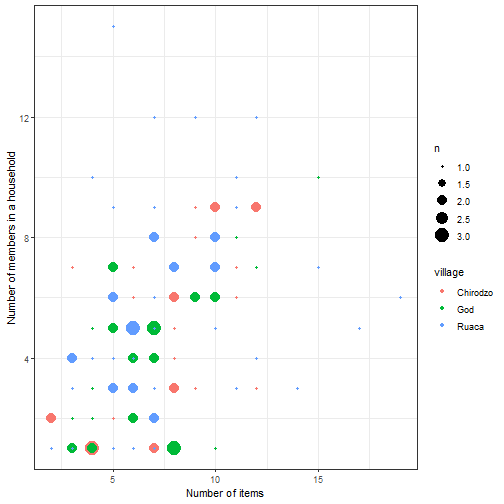
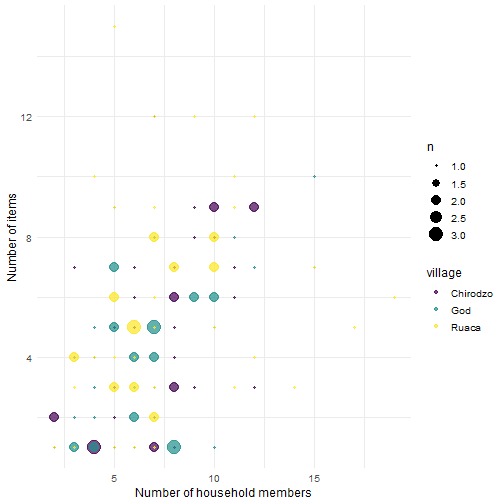
edited the example plots

diff --git a/dc-exercises.html b/dc-exercises.html
@@ -29,9 +29,10 @@ class: center, middle, inverse, title-slide
 
 🐦 @eirini_zormpa
 
-👩🎓 PhD at Max Planck Institute for Psycholinguistics
+👨🎓 PhD at Max Planck Institute for Psycholinguistics
 
 💼 Trainer on RDM and Open Science at TU Delft
+
 ---
 
 class: center, middle, inverse
@@ -76,11 +77,11 @@ class: center, middle
 
 ```r
 interviews_plotting %&gt;% 
-   ggplot(aes(x = no_membrs, y = number_items, color = village)) +
+   ggplot(aes(x = no_membrs, y = number_items, colour = village)) +
       geom_count() +
-      theme_bw() +
-      labs(x = "Number of items", 
-           y = "Number of members in a household")
+      scale_colour_viridis_d(alpha = 0.7) +
+      theme_minimal() + theme(text = element_text(size = 12)) +
+      labs(x = "Number of household members", y = "Number of items")
 ```
 
 &lt;img src="dc-exercises_files/figure-html/ggplot-1-1.png" width="100%" /&gt;
@@ -91,10 +92,10 @@ interviews_plotting %&gt;%
 ```r
 interviews_plotting %&gt;%
   ggplot(aes(x = village, y = rooms, fill = village)) +
-    geom_boxplot() +
-    theme_minimal() +
-    theme(legend.position = "none",
-        panel.grid.major.x = element_blank())
+    geom_violin() +
+    scale_fill_viridis_d(alpha = 0.7) +
+    theme_minimal() + labs(x = "") +
+    theme(legend.position = "none", axis.text.x = element_text(size = 12))
 ```
 
 &lt;img src="dc-exercises_files/figure-html/ggplot-2-1.png" width="100%" /&gt;
@@ -153,7 +154,7 @@ class: center, middle
 
 ## Exercise 1
 
-🕗 **10 mins**
+🕧 **10 mins**
 
 Create a scatter plot of `rooms` by `village` with the `respondant_wall_type`
 showing in different colours. 
@@ -162,7 +163,7 @@ Does this seem like a good way to display the relationship between these variabl
 
 What other kinds of plots might you use to show this type of data?
 
-<div class="countdown" id="timer_616acda3" style="right:0;bottom:0;" data-warnwhen="0">
+<div class="countdown" id="timer_616ad7b2" style="right:0;bottom:0;" data-warnwhen="0">
 <code class="countdown-time"><span class="countdown-digits minutes">10</span><span class="countdown-digits colon">:</span><span class="countdown-digits seconds">00</span></code>
 </div>
 
@@ -190,7 +191,7 @@ class: center, middle
 
 ## Exercise 2
 
-🕒 **5 mins**
+🕔 **5 mins**
 
 Boxplots are useful summaries, but hide the shape of the distribution. For example,
 if the distribution is bimodal, we would not see it in a boxplot.
@@ -198,7 +199,7 @@ if the distribution is bimodal, we would not see it in a boxplot.
 Replace the box plot with a violin plot  
 see `geom_violin()`
 
-<div class="countdown" id="timer_616acfc9" style="right:0;bottom:0;" data-warnwhen="0">
+<div class="countdown" id="timer_616ad618" style="right:0;bottom:0;" data-warnwhen="0">
 <code class="countdown-time"><span class="countdown-digits minutes">05</span><span class="countdown-digits colon">:</span><span class="countdown-digits seconds">00</span></code>
 </div>
 
@@ -222,7 +223,7 @@ class: center, middle
 
 ## Exercise 3
 
-🕠 **10 mins**
+🕟 **10 mins**
 
 Create a bar plot showing the proportion of respondents in each village who are 
 or are not part of an irrigation association (`memb_assoc`). 
@@ -231,7 +232,7 @@ Include only respondents who answered that question in the calculations and plot
 
 Which village had the lowest proportion of respondents in an irrigation association?
 
-<div class="countdown" id="timer_616acdad" style="right:0;bottom:0;" data-warnwhen="0">
+<div class="countdown" id="timer_616ad4b6" style="right:0;bottom:0;" data-warnwhen="0">
 <code class="countdown-time"><span class="countdown-digits minutes">10</span><span class="countdown-digits colon">:</span><span class="countdown-digits seconds">00</span></code>
 </div>
 
@@ -275,14 +276,14 @@ class: center, middle
 
 ## Exercise 4
 
-🕘 **5 mins**
+🕧 **5 mins**
 
 Experiment with at least two different themes. Build the previous plot using each
 of those themes. 
 
 Which do you like best?
 
-<div class="countdown" id="timer_616ad030" style="right:0;bottom:0;" data-warnwhen="0">
+<div class="countdown" id="timer_616ad674" style="right:0;bottom:0;" data-warnwhen="0">
 <code class="countdown-time"><span class="countdown-digits minutes">05</span><span class="countdown-digits colon">:</span><span class="countdown-digits seconds">00</span></code>
 </div>
 
@@ -300,6 +301,7 @@ Which do you like best?
 `theme_grey`  
 `theme_light`
 ]
+
 ---
 class: center, middle, inverse
 
